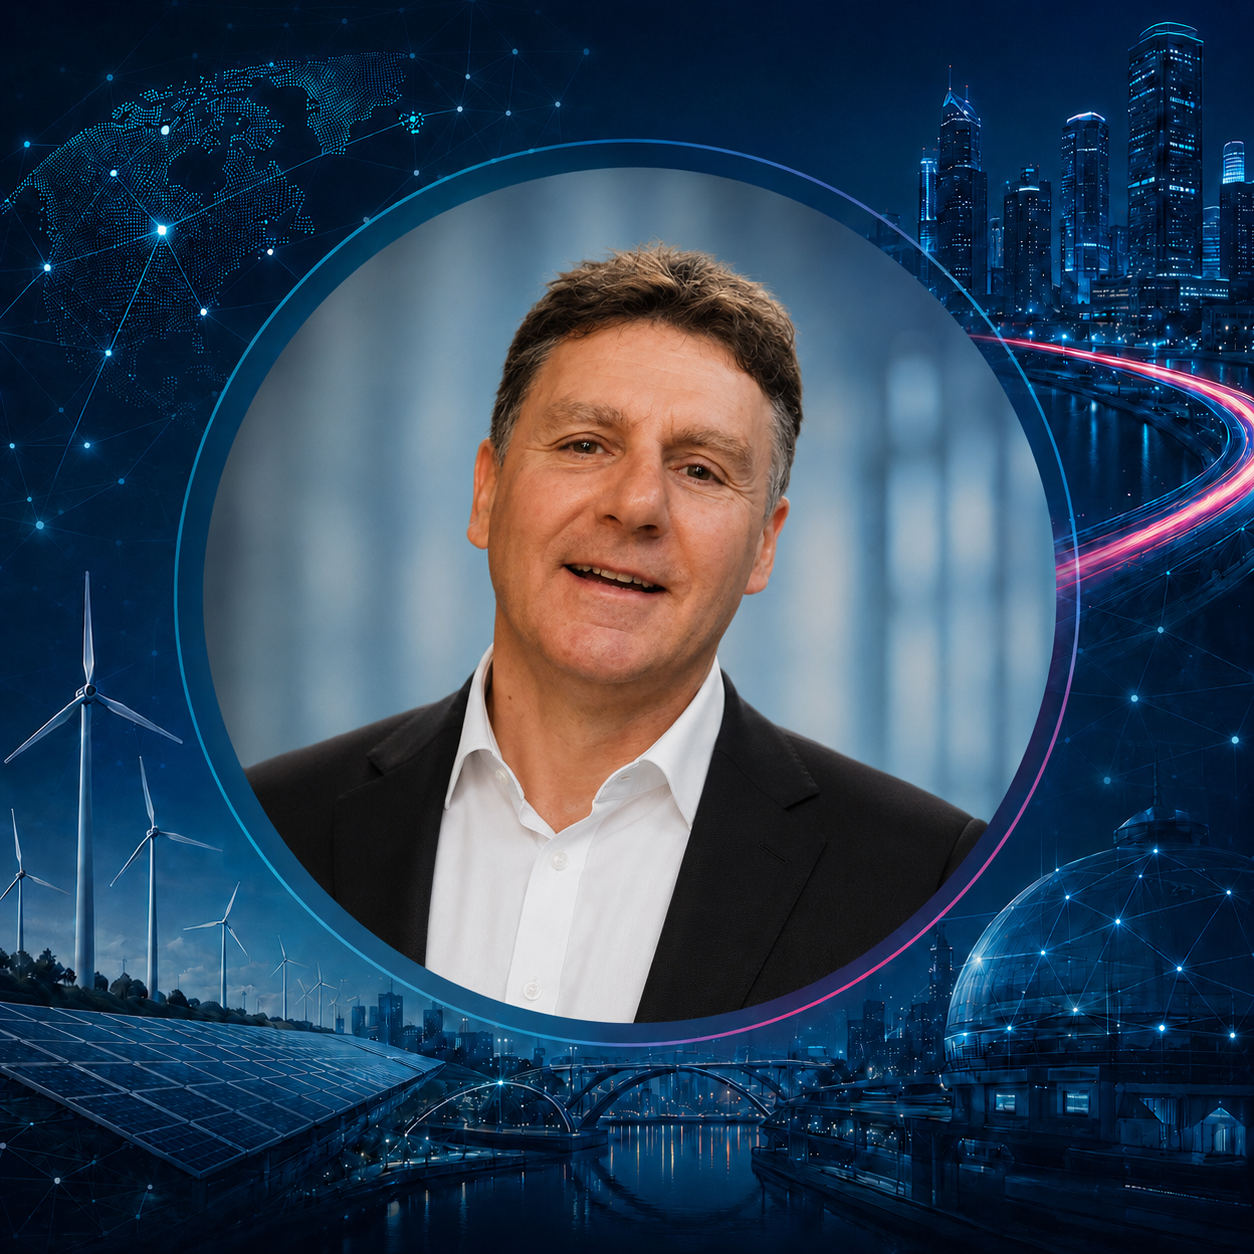
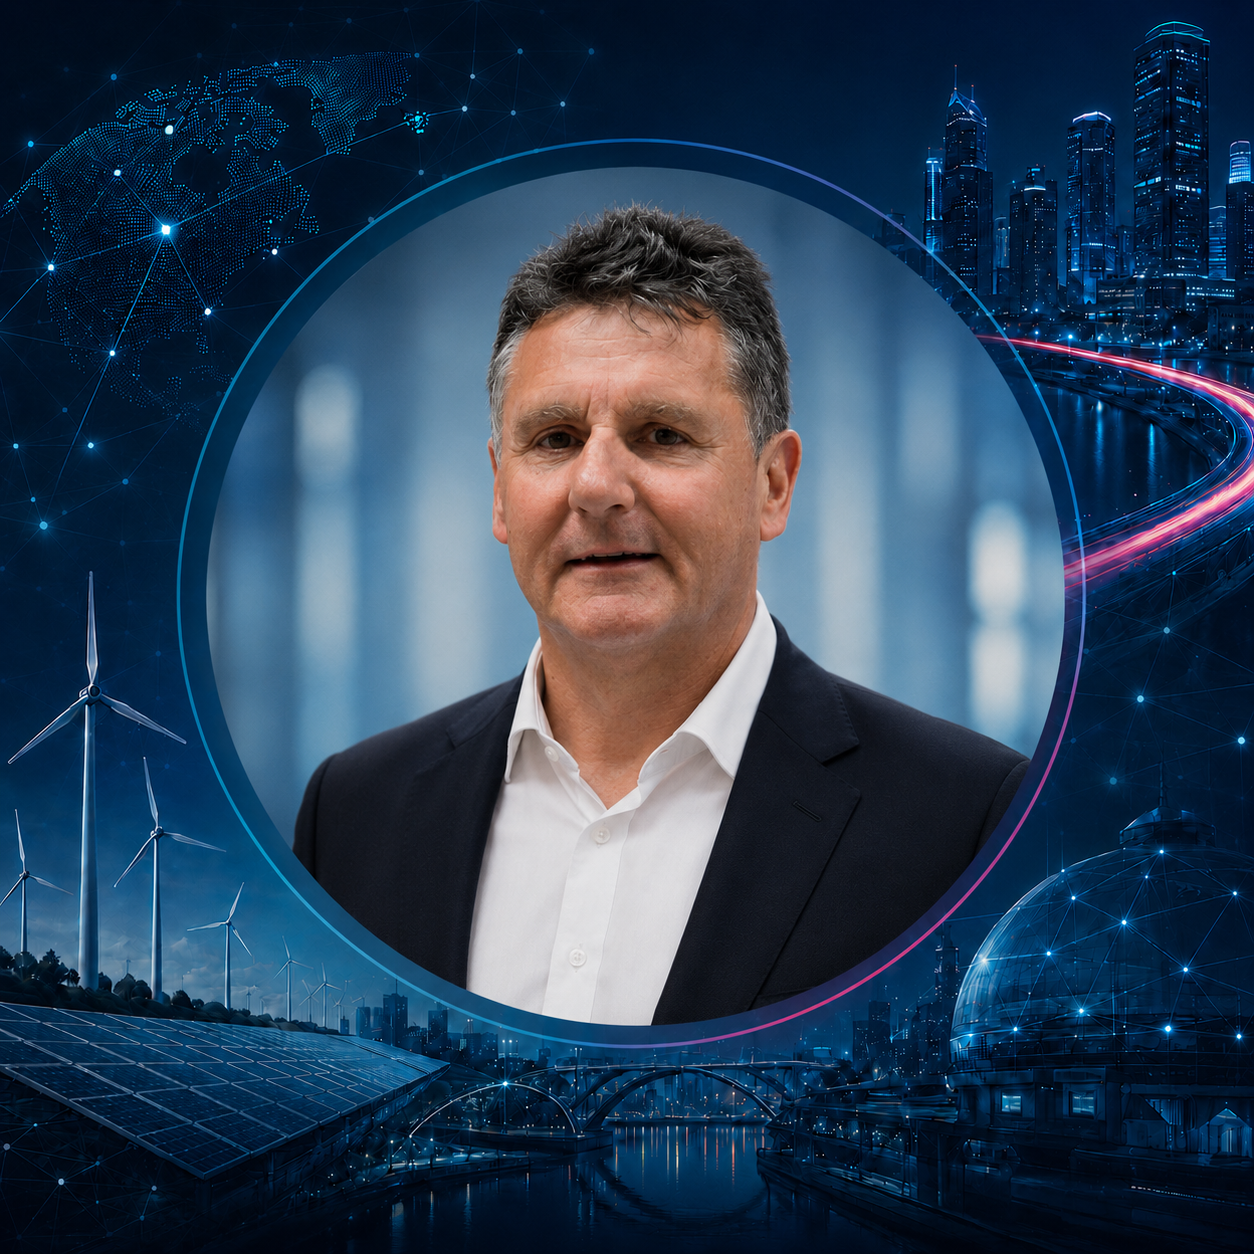
Fix mobile leadership images and responsive footer styling

diff --git a/src/pages/AboutUs.jsx b/src/pages/AboutUs.jsx
@@ -1520,39 +1520,47 @@ function KMCConsultingPartnerModal({ isOpen, onClose }) {
 function LeadershipCard({ leader }) {
   return (
     <article className="overflow-hidden rounded-2xl border border-slate-200 bg-white shadow-sm transition hover:-translate-y-1 hover:shadow-lg">
-      <div className="relative h-40 overflow-hidden bg-gradient-to-br from-slate-50 to-slate-200">
+      <div className="relative h-64 overflow-hidden bg-gradient-to-br from-slate-50 to-slate-200 sm:h-72 md:h-52 lg:h-40">
         {leader.image ? (
           <img
             src={leader.image}
             alt={`${leader.name} profile`}
-            className="h-full w-full object-cover"
+            className="h-full w-full object-cover object-top"
           />
         ) : (
           <>
             <div className="absolute left-1/2 top-6 h-16 w-16 -translate-x-1/2 rounded-full bg-slate-300" />
+
             <div className="absolute bottom-0 left-1/2 h-24 w-32 -translate-x-1/2 rounded-t-full bg-slate-300" />
+
             <div className="absolute bottom-0 right-0 h-24 w-24 rounded-tl-[4rem] bg-white/45" />
           </>
         )}
       </div>
 
       <div className="p-5">
-        <h3 className="text-lg font-black text-[#07133c]">{leader.name}</h3>
-        <p className="mt-1 text-xs font-black text-teal-600">{leader.role}</p>
+        <h3 className="text-lg font-black text-[#07133c]">
+          {leader.name}
+        </h3>
+
+        <p className="mt-1 text-xs font-black text-teal-600">
+          {leader.role}
+        </p>
+
         <p className="mt-4 min-h-[84px] text-sm font-semibold leading-6 text-[#07133c]">
           {leader.text}
         </p>
 
         {leader.linkedin && (
-        <a
-          href={leader.linkedin}
-          target="_blank"
-          rel="noopener noreferrer"
-          aria-label={`${leader.name} LinkedIn`}
-          className="mt-4 inline-flex h-6 w-6 items-center justify-center rounded bg-[#0a66c2] text-xs font-black text-white transition hover:scale-110 hover:bg-[#004182]"
-        >
-          in
-        </a>
+          <a
+            href={leader.linkedin}
+            target="_blank"
+            rel="noopener noreferrer"
+            aria-label={`${leader.name} LinkedIn`}
+            className="mt-4 inline-flex h-6 w-6 items-center justify-center rounded bg-[#0a66c2] text-xs font-black text-white transition hover:scale-110 hover:bg-[#004182]"
+          >
+            in
+          </a>
         )}
       </div>
     </article>

diff --git a/src/pages/BuiltEnvironment.jsx b/src/pages/BuiltEnvironment.jsx
@@ -416,7 +416,7 @@ const tools = [
   {
     title: "BDRR",
     text: "Portfolio and building decarbonisation decision support and prioritisation.",
-    cta: "Explore BDDR",
+    cta: "Explore BDRR",
     page: "SmartDecarb360",
     modal: "bdrr",
     stat: "↓ 36%",
